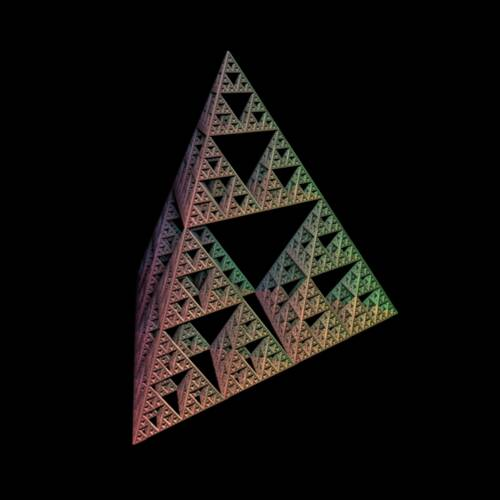
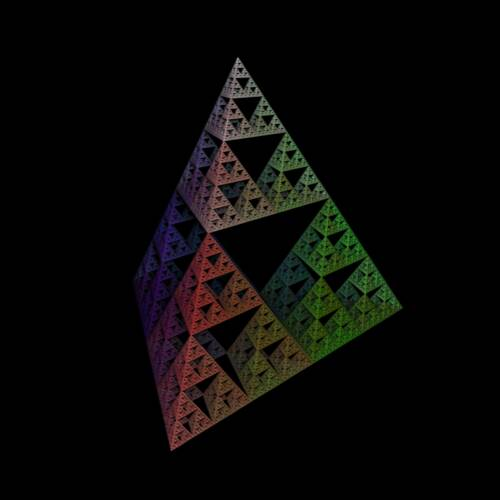
Updated the Sierpinski tetrahedron coloring algorithm

Changed region(s): [[0.24, 0.09, 0.81, 0.9]]

diff --git a/applets/the-sierpinski-tetrahedron/scripts/the-sierpinski-tetrahedron.min.js b/applets/the-sierpinski-tetrahedron/scripts/the-sierpinski-tetrahedron.min.js
@@ -1,1 +1,1 @@
-!function(){"use strict";let t=document.querySelector("#output-canvas").getContext("webgl"),e=document.querySelector("#output-canvas").offsetWidth,n=!1,o=0,i=0,a=!1,r=!1,c=!1,s=!1,l=!1,u=!1,_=0,m=!1,f=1,d=3.2954,h=1.9657,v=parseInt(document.querySelector("#dim-input").value||500),p=16,g=[],y=[],b=[],w=[],x=[4.2178,.8269,1.9065],S=[0,0,5],M=1.25,L=2,A=.01,P=.01,k=Math.pow(2,-p);U(),document.querySelector("#output-canvas").setAttribute("width",v),document.querySelector("#output-canvas").setAttribute("height",v),document.querySelector("#dim-input").addEventListener("input",function(){(v=parseInt(document.querySelector("#dim-input").value||500))<200&&(v=200);v>2e3&&(v=2e3);t.uniform1i(E.small_image_size_uniform,v),document.querySelector("#output-canvas").setAttribute("width",v),document.querySelector("#output-canvas").setAttribute("height",v),t.viewport(0,0,v,v),C()}),document.querySelector("#generate-high-res-image-button").addEventListener("click",function(){let e=v;v=parseInt(document.querySelector("#high-res-dim-input").value||2e3),document.querySelector("#output-canvas").setAttribute("width",v),document.querySelector("#output-canvas").setAttribute("height",v),t.viewport(0,0,v,v),C();let n=document.createElement("a");n.download="the-sierpinski-tetrahedron.png",n.href=document.querySelector("#output-canvas").toDataURL(),n.click(),n.remove(),v=e,document.querySelector("#output-canvas").setAttribute("width",v),document.querySelector("#output-canvas").setAttribute("height",v),t.viewport(0,0,v,v),C()}),window.addEventListener("resize",R),setTimeout(R,500),document.querySelector("#output-canvas").addEventListener("mousedown",function(t){n=!0,o=t.clientX,i=t.clientY}),document.querySelector("#output-canvas").addEventListener("mousemove",function(t){if(n){t.preventDefault();let n=t.clientX,a=t.clientY,r=n-o,c=a-i;if(Math.abs(r)>20||Math.abs(c)>20)return;(d+=r/e*Math.PI)>=2*Math.PI?d-=2*Math.PI:d<0&&(d+=2*Math.PI),(h-=c/e*Math.PI)>Math.PI-.01?h=Math.PI-.01:h<.01&&(h=.01),o=n,i=a,U(),C()}}),document.documentElement.addEventListener("mouseup",function(t){n=!1}),document.querySelector("#output-canvas").addEventListener("touchstart",function(t){o=t.touches[0].clientX,i=t.touches[0].clientY,2===t.touches.length?(l=!0,u=!1):3===t.touches.length&&(u=!0,l=!1)}),document.querySelector("#output-canvas").addEventListener("touchmove",function(t){t.preventDefault();let n=t.touches[0].clientX,a=t.touches[0].clientY,r=n-o,c=a-i;Math.abs(r)>20||Math.abs(c)>20||((d+=r/e*Math.PI)>=2*Math.PI?d-=2*Math.PI:d<0&&(d+=2*Math.PI),(h-=c/e*Math.PI)>Math.PI-.01?h=Math.PI-.01:h<.01&&(h=.01),o=n,i=a,U(),C())}),document.querySelector("#output-canvas").addEventListener("touchend",function(t){2===t.touches.length?(l=!0,u=!1):3===t.touches.length?(u=!0,l=!1):(u=!1,l=!1)}),document.documentElement.addEventListener("keydown",function(t){87===t.keyCode?a=!0:83===t.keyCode&&(r=!0),68===t.keyCode?c=!0:65===t.keyCode&&(s=!0),16===t.keyCode&&(m=!0)}),document.documentElement.addEventListener("keyup",function(t){87===t.keyCode?a=!1:83===t.keyCode&&(r=!1),68===t.keyCode?c=!1:65===t.keyCode&&(s=!1),16===t.keyCode&&(m=!1)}),setInterval(function(){(a||r||c||s||l||u)&&((_=f/60)<0&&(_=0),_>.02&&(_=.02),m&&(_*=3),a||l?(x[0]+=_*y[0],x[1]+=_*y[1],x[2]+=_*y[2]):(r||u)&&(x[0]-=_*y[0],x[1]-=_*y[1],x[2]-=_*y[2]),c?(x[0]+=_*b[0]/L,x[1]+=_*b[1]/L,x[2]+=_*b[2]/L):s&&(x[0]-=_*b[0]/L,x[1]-=_*b[1]/L,x[2]-=_*b[2]/L),U(),C())},8);const I="\n\t\tattribute vec3 position;\n\t\tvarying vec2 uv;\n\n\t\tvoid main(void)\n\t\t{\n\t\t\tgl_Position = vec4(position, 1.0);\n\n\t\t\t//Interpolate quad coordinates in the fragment shader.\n\t\t\tuv = position.xy;\n\t\t}\n\t",q="\n\t\tprecision highp float;\n\t\t\n\t\tvarying vec2 uv;\n\t\t\n\t\tuniform vec3 camera_pos;\n\t\tuniform vec3 image_plane_center_pos;\n\t\tuniform vec3 forward_vec;\n\t\tuniform vec3 right_vec;\n\t\tuniform vec3 up_vec;\n\t\t\n\t\tuniform float focal_length;\n\t\t\n\t\tuniform vec3 light_pos;\n\t\tuniform float light_brightness;\n\t\t\n\t\tuniform int image_size;\n\t\tuniform int small_image_size;\n\t\t\n\t\t\n\t\t\n\t\tconst float clip_distance = 1000.0;\n\t\tconst int max_marches = 32;\n\t\tconst vec3 fog_color = vec3(0.0, 0.0, 0.0);\n\t\tconst float fog_scaling = .2;\n\t\tconst int num_sierpinski_iterations = 16;\n\t\t\n\t\t\n\t\tvec3 color;\n\t\t\n\t\tconst vec3 color_1 = vec3(1.0, 1.0, 1.0);\n\t\tconst vec3 color_2 = vec3(1.0, 0.0, 0.0);\n\t\tconst vec3 color_3 = vec3(0.0, 1.0, 0.0);\n\t\tconst vec3 color_4 = vec3(0.0, 0.0, 1.0);\n\t\t\n\t\t\n\t\t\n\t\tfloat distance_estimator(vec3 pos)\n\t\t{\n\t\t\tvec3 mutable_pos = pos;\n\t\t\t\n\t\t\tvec3 vertex_1 = vec3(0.0, 0.0, 1.0);\n\t\t\tvec3 vertex_2 = vec3(.942809, 0.0, -.333333);\n\t\t\tvec3 vertex_3 = vec3(-.471405, .816497, -.333333);\n\t\t\tvec3 vertex_4 = vec3(-.471405, -.816497, -.333333);\n\t\t\t\n\t\t\tcolor = vec3(0.0, 0.0, 0.0);\n\t\t\tfloat color_scale = .3014;\n\t\t\t\n\t\t\t\n\t\t\t//We'll find the closest vertex, scale everything by a factor of 2 centered on that vertex (so that we don't need to recalculate the vertices), and repeat.\n\t\t\tfor (int iteration = 0; iteration < num_sierpinski_iterations; iteration++)\n\t\t\t{\n\t\t\t\tfloat min_distance = clip_distance;\n\t\t\t\tvec3 closest_vertex;\n\t\t\t\t\n\t\t\t\t\n\t\t\t\t\n\t\t\t\tfloat distance = length(mutable_pos - vertex_1);\n\t\t\t\t\n\t\t\t\tif (distance < min_distance)\n\t\t\t\t{\n\t\t\t\t\tmin_distance = distance;\n\t\t\t\t\tclosest_vertex = vertex_1;\n\t\t\t\t\tcolor += color_scale * color_1;\n\t\t\t\t}\n\t\t\t\t\n\t\t\t\t\n\t\t\t\t\n\t\t\t\tdistance = length(mutable_pos - vertex_2);\n\t\t\t\t\n\t\t\t\tif (distance < min_distance)\n\t\t\t\t{\n\t\t\t\t\tmin_distance = distance;\n\t\t\t\t\tclosest_vertex = vertex_2;\n\t\t\t\t\tcolor += color_scale * color_2;\n\t\t\t\t}\n\t\t\t\t\n\t\t\t\t\n\t\t\t\t\n\t\t\t\tdistance = length(mutable_pos - vertex_3);\n\t\t\t\t\n\t\t\t\tif (distance < min_distance)\n\t\t\t\t{\n\t\t\t\t\tmin_distance = distance;\n\t\t\t\t\tclosest_vertex = vertex_3;\n\t\t\t\t\tcolor += color_scale * color_3;\n\t\t\t\t}\n\t\t\t\t\n\t\t\t\t\n\t\t\t\t\n\t\t\t\tdistance = length(mutable_pos - vertex_4);\n\t\t\t\t\n\t\t\t\tif (distance < min_distance)\n\t\t\t\t{\n\t\t\t\t\tmin_distance = distance;\n\t\t\t\t\tclosest_vertex = vertex_4;\n\t\t\t\t\tcolor += color_scale * color_4;\n\t\t\t\t}\n\t\t\t\t\n\t\t\t\t\n\t\t\t\t\n\t\t\t\t//This one takes a fair bit of thinking to get. What's happening here is that we're stretching from a vertex, but since we never scale the vertices, the four new ones are the four closest to the vertex we scaled from. Now (x, y, z) will get farther and farther away from the origin, but that makes sense -- we're really just zooming in on the tetrahedron.\n\t\t\t\tmutable_pos = 2.0 * mutable_pos - closest_vertex;\n\t\t\t\t\n\t\t\t\tcolor_scale *= .7;\n\t\t\t}\n\t\t\t\n\t\t\t\n\t\t\t\n\t\t\treturn length(mutable_pos) * pow(.5, float(num_sierpinski_iterations));\n\t\t}\n\t\t\n\t\t\n\t\t\n\t\tvec3 get_surface_normal(vec3 pos)\n\t\t{\n\t\t\tfloat e = .00001;\n\t\t\t\n\t\t\tfloat base = distance_estimator(pos);\n\t\t\t\n\t\t\tfloat x_step = distance_estimator(pos + vec3(e, 0.0, 0.0));\n\t\t\tfloat y_step = distance_estimator(pos + vec3(0.0, e, 0.0));\n\t\t\tfloat z_step = distance_estimator(pos + vec3(0.0, 0.0, e));\n\t\t\t\n\t\t\treturn normalize(vec3(x_step - base, y_step - base, z_step - base));\n\t\t}\n\t\t\n\t\t\n\t\t\n\t\tvec3 compute_shading(vec3 pos, int iteration)\n\t\t{\n\t\t\tvec3 surface_normal = get_surface_normal(pos);\n\t\t\t\n\t\t\tvec3 light_direction = normalize(light_pos - pos);\n\t\t\t\n\t\t\tfloat light_intensity = light_brightness * dot(surface_normal, light_direction);\n\t\t\t\n\t\t\t//The last factor adds ambient occlusion.\n\t\t\tcolor = color * light_intensity * max((1.0 - float(iteration) / float(max_marches)), 0.0);\n\t\t\t\n\t\t\t\n\t\t\t\n\t\t\t//Apply fog.\n\t\t\tfloat distance_from_camera = length(pos - camera_pos);\n\t\t\t\n\t\t\tfloat fog_amount = 1.0 - exp(-distance_from_camera * fog_scaling);\n\t\t\t\n\t\t\treturn (1.0 - fog_amount) * color + fog_amount * fog_color;\n\t\t}\n\t\t\n\t\t\n\t\t\n\t\tvoid main(void)\n\t\t{\n\t\t\tvec3 start_pos = image_plane_center_pos + right_vec * uv.x + up_vec * uv.y;\n\t\t\t\n\t\t\t//That factor of .9 is important -- without it, we're always stepping as far as possible, which results in artefacts and weirdness.\n\t\t\tvec3 ray_direction_vec = normalize(start_pos - camera_pos) * .9;\n\t\t\t\n\t\t\tvec3 final_color = fog_color;\n\t\t\t\n\t\t\tfloat t = 0.0;\n\t\t\t\n\t\t\tfloat epsilon = .00002;\n\t\t\t\n\t\t\t\n\t\t\t\n\t\t\tfor (int iteration = 0; iteration < max_marches; iteration++)\n\t\t\t{\n\t\t\t\tvec3 pos = start_pos + t * ray_direction_vec;\n\t\t\t\t\n\t\t\t\tfloat distance = distance_estimator(pos);\n\t\t\t\t\n\t\t\t\t//This lowers the detail far away, which makes everything run nice and fast.\n\t\t\t\tif (image_size == small_image_size && distance / 100.0 > epsilon)\n\t\t\t\t{\n\t\t\t\t\tepsilon = distance / 100.0;\n\t\t\t\t}\n\t\t\t\t\n\t\t\t\telse if (image_size != small_image_size && distance / 300.0 > epsilon)\n\t\t\t\t{\n\t\t\t\t\tepsilon = distance / 300.0;\n\t\t\t\t}\n\t\t\t\t\n\t\t\t\t\n\t\t\t\t\n\t\t\t\tif (distance < epsilon)\n\t\t\t\t{\n\t\t\t\t\tfinal_color = compute_shading(pos, iteration);\n\t\t\t\t\tbreak;\n\t\t\t\t}\n\t\t\t\t\n\t\t\t\telse if (distance > clip_distance)\n\t\t\t\t{\n\t\t\t\t\tbreak;\n\t\t\t\t}\n\t\t\t\t\n\t\t\t\t\n\t\t\t\t\n\t\t\t\tt += distance;\n\t\t\t}\n\t\t\t\n\t\t\t\n\t\t\t\n\t\t\tgl_FragColor = vec4(final_color.xyz, 1.0);\n\t\t}\n\t";let E=null;function z(){let e=T(t,t.VERTEX_SHADER,I),n=T(t,t.FRAGMENT_SHADER,q);E=t.createProgram(),t.attachShader(E,e),t.attachShader(E,n),t.linkProgram(E),t.getProgramParameter(E,t.LINK_STATUS)||(console.log(`Couldn't link shader program: ${t.getShaderInfoLog(shader)}`),t.deleteProgram(E)),t.useProgram(E);let o=t.createBuffer();t.bindBuffer(t.ARRAY_BUFFER,o),t.bufferData(t.ARRAY_BUFFER,new Float32Array([-1,-1,0,-1,1,0,1,-1,0,1,1,0]),t.STATIC_DRAW),E.position_attribute=t.getAttribLocation(E,"position"),t.enableVertexAttribArray(E.position_attribute),t.vertexAttribPointer(E.position_attribute,3,t.FLOAT,!1,0,0),E.image_size_uniform=t.getUniformLocation(E,"image_size"),E.small_image_size_uniform=t.getUniformLocation(E,"small_image_size"),E.camera_pos_uniform=t.getUniformLocation(E,"camera_pos"),E.image_plane_center_pos_uniform=t.getUniformLocation(E,"image_plane_center_pos"),E.forward_vec_uniform=t.getUniformLocation(E,"forward_vec"),E.right_vec_uniform=t.getUniformLocation(E,"right_vec"),E.up_vec_uniform=t.getUniformLocation(E,"up_vec"),E.focal_length_uniform=t.getUniformLocation(E,"focal_length"),E.epsilon_uniform=t.getUniformLocation(E,"epsilon"),E.light_pos_uniform=t.getUniformLocation(E,"light_pos"),E.light_brightness_uniform=t.getUniformLocation(E,"light_brightness"),t.viewport(0,0,v,v),C()}function T(t,e,n){let o=t.createShader(e);return t.shaderSource(o,n),t.compileShader(o),t.getShaderParameter(o,t.COMPILE_STATUS)||(console.log(`Couldn't load shader: ${t.getProgramInfoLog(shaderProgram)}`),t.deleteShader(o)),o}function C(){t.uniform1i(E.image_size_uniform,v),t.uniform1i(E.small_image_size_uniform,v),t.uniform3fv(E.camera_pos_uniform,x),t.uniform3fv(E.image_plane_center_pos_uniform,g),t.uniform3fv(E.forward_vec_uniform,y),t.uniform3fv(E.right_vec_uniform,b),t.uniform3fv(E.up_vec_uniform,w),t.uniform1f(E.focal_length_uniform,L),t.uniform1f(E.epsilon_uniform,A),t.uniform3fv(E.light_pos_uniform,S),t.uniform1f(E.light_brightness_uniform,M),t.drawArrays(t.TRIANGLE_STRIP,0,4),f=function(t,e,n){let o=[[0,0,1],[.942809,0,-.333333],[-.471405,.816497,-.333333],[-.471405,-.816497,-.333333]];for(let i=0;i<p;i++){let i=1/0,a=0;for(let r=0;r<4;r++){let c=(t-o[r][0])*(t-o[r][0])+(e-o[r][1])*(e-o[r][1])+(n-o[r][2])*(n-o[r][2]);c<i&&(i=c,a=r)}t=2*t-o[a][0],e=2*e-o[a][1],n=2*n-o[a][2]}return Math.sqrt(t*t+e*e+n*n)*Math.pow(2,-p)}(g[0],g[1],g[2])}function U(){var t,e;y=[Math.cos(d)*Math.sin(h),Math.sin(d)*Math.sin(h),Math.cos(h)],b=function(t){let e=Math.sqrt(t[0]*t[0]+t[1]*t[1]+t[2]*t[2]);return[t[0]/e,t[1]/e,t[2]/e]}([y[1],-y[0],0]),e=y,w=[(t=b)[1]*e[2]-t[2]*e[1],t[2]*e[0]-t[0]*e[2],t[0]*e[1]-t[1]*e[0]],L=f/2,b[0]*=L/2,b[1]*=L/2,w[0]*=L/2,w[1]*=L/2,w[2]*=L/2,A=Math.max(Math.min(f/50,P),k),g=[x[0]+L*y[0],x[1]+L*y[1],x[2]+L*y[2]]}function R(){e=document.querySelector("#output-canvas").offsetWidth}load_script("/scripts/gl-matrix.min.js").then(function(){setTimeout(z,500)})}();
+!function(){"use strict";let t=document.querySelector("#output-canvas").getContext("webgl"),e=document.querySelector("#output-canvas").offsetWidth,n=!1,o=0,i=0,r=!1,a=!1,c=!1,s=!1,l=!1,u=!1,m=0,_=!1,f=1,h=3.2954,d=1.9657,v=parseInt(document.querySelector("#dim-input").value||500),p=16,g=[],y=[],b=[],w=[],S=[4.2178,.8269,1.9065],x=[0,0,5],M=2,L=2,A=.01,P=.01,k=Math.pow(2,-p);U(),document.querySelector("#output-canvas").setAttribute("width",v),document.querySelector("#output-canvas").setAttribute("height",v),document.querySelector("#dim-input").addEventListener("input",function(){(v=parseInt(document.querySelector("#dim-input").value||500))<200&&(v=200);v>2e3&&(v=2e3);t.uniform1i(z.small_image_size_uniform,v),document.querySelector("#output-canvas").setAttribute("width",v),document.querySelector("#output-canvas").setAttribute("height",v),t.viewport(0,0,v,v),C()}),document.querySelector("#generate-high-res-image-button").addEventListener("click",function(){let e=v;v=parseInt(document.querySelector("#high-res-dim-input").value||2e3),document.querySelector("#output-canvas").setAttribute("width",v),document.querySelector("#output-canvas").setAttribute("height",v),t.viewport(0,0,v,v),C();let n=document.createElement("a");n.download="the-sierpinski-tetrahedron.png",n.href=document.querySelector("#output-canvas").toDataURL(),n.click(),n.remove(),v=e,document.querySelector("#output-canvas").setAttribute("width",v),document.querySelector("#output-canvas").setAttribute("height",v),t.viewport(0,0,v,v),C()}),window.addEventListener("resize",R),setTimeout(R,500),document.querySelector("#output-canvas").addEventListener("mousedown",function(t){n=!0,o=t.clientX,i=t.clientY}),document.querySelector("#output-canvas").addEventListener("mousemove",function(t){if(n){t.preventDefault();let n=t.clientX,r=t.clientY,a=n-o,c=r-i;if(Math.abs(a)>20||Math.abs(c)>20)return;(h+=a/e*Math.PI)>=2*Math.PI?h-=2*Math.PI:h<0&&(h+=2*Math.PI),(d-=c/e*Math.PI)>Math.PI-.01?d=Math.PI-.01:d<.01&&(d=.01),o=n,i=r,U(),C()}}),document.documentElement.addEventListener("mouseup",function(t){n=!1}),document.querySelector("#output-canvas").addEventListener("touchstart",function(t){o=t.touches[0].clientX,i=t.touches[0].clientY,2===t.touches.length?(l=!0,u=!1):3===t.touches.length&&(u=!0,l=!1)}),document.querySelector("#output-canvas").addEventListener("touchmove",function(t){t.preventDefault();let n=t.touches[0].clientX,r=t.touches[0].clientY,a=n-o,c=r-i;Math.abs(a)>20||Math.abs(c)>20||((h+=a/e*Math.PI)>=2*Math.PI?h-=2*Math.PI:h<0&&(h+=2*Math.PI),(d-=c/e*Math.PI)>Math.PI-.01?d=Math.PI-.01:d<.01&&(d=.01),o=n,i=r,U(),C())}),document.querySelector("#output-canvas").addEventListener("touchend",function(t){2===t.touches.length?(l=!0,u=!1):3===t.touches.length?(u=!0,l=!1):(u=!1,l=!1)}),document.documentElement.addEventListener("keydown",function(t){87===t.keyCode?r=!0:83===t.keyCode&&(a=!0),68===t.keyCode?c=!0:65===t.keyCode&&(s=!0),16===t.keyCode&&(_=!0)}),document.documentElement.addEventListener("keyup",function(t){87===t.keyCode?r=!1:83===t.keyCode&&(a=!1),68===t.keyCode?c=!1:65===t.keyCode&&(s=!1),16===t.keyCode&&(_=!1)}),setInterval(function(){(r||a||c||s||l||u)&&((m=f/60)<0&&(m=0),m>.02&&(m=.02),_&&(m*=3),r||l?(S[0]+=m*y[0],S[1]+=m*y[1],S[2]+=m*y[2]):(a||u)&&(S[0]-=m*y[0],S[1]-=m*y[1],S[2]-=m*y[2]),c?(S[0]+=m*b[0]/L,S[1]+=m*b[1]/L,S[2]+=m*b[2]/L):s&&(S[0]-=m*b[0]/L,S[1]-=m*b[1]/L,S[2]-=m*b[2]/L),U(),C())},8);const I="\n\t\tattribute vec3 position;\n\t\tvarying vec2 uv;\n\n\t\tvoid main(void)\n\t\t{\n\t\t\tgl_Position = vec4(position, 1.0);\n\n\t\t\t//Interpolate quad coordinates in the fragment shader.\n\t\t\tuv = position.xy;\n\t\t}\n\t",q="\n\t\tprecision highp float;\n\t\t\n\t\tvarying vec2 uv;\n\t\t\n\t\tuniform vec3 camera_pos;\n\t\tuniform vec3 image_plane_center_pos;\n\t\tuniform vec3 forward_vec;\n\t\tuniform vec3 right_vec;\n\t\tuniform vec3 up_vec;\n\t\t\n\t\tuniform float focal_length;\n\t\t\n\t\tuniform vec3 light_pos;\n\t\tuniform float light_brightness;\n\t\t\n\t\tuniform int image_size;\n\t\tuniform int small_image_size;\n\t\t\n\t\t\n\t\t\n\t\tconst float clip_distance = 1000.0;\n\t\tconst int max_marches = 32;\n\t\tconst vec3 fog_color = vec3(0.0, 0.0, 0.0);\n\t\tconst float fog_scaling = .2;\n\t\tconst int num_sierpinski_iterations = 16;\n\t\t\n\t\t\n\t\tvec3 color;\n\t\t\n\t\tconst vec3 color_1 = vec3(1.0, 0.0, 0.0);\n\t\tconst vec3 color_2 = vec3(0.0, 1.0, 0.0);\n\t\tconst vec3 color_3 = vec3(0.0, 0.0, 1.0);\n\t\t\n\t\tconst vec3 vertex_0 = vec3(0.0, 0.0, 1.0);\n\t\tconst vec3 vertex_1 = vec3(.942809, 0.0, -.333333);\n\t\tconst vec3 vertex_2 = vec3(-.471405, .816497, -.333333);\n\t\tconst vec3 vertex_3 = vec3(-.471405, -.816497, -.333333);\n\t\t\n\t\tconst vec3 n1 = normalize(vertex_0 - vertex_1);\n\t\tconst vec3 n2 = normalize(vertex_0 - vertex_2);\n\t\tconst vec3 n3 = normalize(vertex_0 - vertex_3);\n\t\t\n\t\t\n\t\t\n\t\tfloat distance_estimator(vec3 pos)\n\t\t{\n\t\t\tvec3 mutable_pos = pos;\n\t\t\t\n\t\t\tcolor = vec3(1.0, 1.0, 1.0);\n\t\t\tfloat color_scale = .5;\n\t\t\t\n\t\t\t\n\t\t\t//We'll find the closest vertex, scale everything by a factor of 2 centered on that vertex (so that we don't need to recalculate the vertices), and repeat.\n\t\t\tfor (int iteration = 0; iteration < num_sierpinski_iterations; iteration++)\n\t\t\t{\n\t\t\t\t//Fold space over on itself so that we can reference only the top vertex.\n\t\t\t\tfloat t1 = dot(mutable_pos, n1);\n\t\t\t\t\n\t\t\t\tif (t1 < 0.0)\n\t\t\t\t{\n\t\t\t\t\tmutable_pos -= 2.0 * t1 * n1;\n\t\t\t\t\t\n\t\t\t\t\tcolor = (1.0 - color_scale) * color + color_scale * color_1;\n\t\t\t\t}\n\t\t\t\t\n\t\t\t\tfloat t2 = dot(mutable_pos, n2);\n\t\t\t\t\n\t\t\t\tif (t2 < 0.0)\n\t\t\t\t{\n\t\t\t\t\tmutable_pos -= 2.0 * t2 * n2;\n\t\t\t\t\t\n\t\t\t\t\tcolor = (1.0 - color_scale) * color + color_scale * color_2;\n\t\t\t\t}\n\t\t\t\t\n\t\t\t\tfloat t3 = dot(mutable_pos, n3);\n\t\t\t\t\n\t\t\t\tif (t3 < 0.0)\n\t\t\t\t{\n\t\t\t\t\tmutable_pos -= 2.0 * t3 * n3;\n\t\t\t\t\t\n\t\t\t\t\tcolor = (1.0 - color_scale) * color + color_scale * color_3;\n\t\t\t\t}\n\t\t\t\t\n\t\t\t\t\n\t\t\t\t\n\t\t\t\t//This one takes a fair bit of thinking to get. What's happening here is that we're stretching from a vertex, but since we never scale the vertices, the four new ones are the four closest to the vertex we scaled from. Now (x, y, z) will get farther and farther away from the origin, but that makes sense -- we're really just zooming in on the tetrahedron.\n\t\t\t\tmutable_pos = 2.0 * mutable_pos - vertex_0;\n\t\t\t\t\n\t\t\t\tcolor_scale *= .5;\n\t\t\t}\n\t\t\t\n\t\t\treturn length(mutable_pos) * pow(.5, float(num_sierpinski_iterations));\n\t\t}\n\t\t\n\t\t\n\t\t\n\t\tvec3 get_surface_normal(vec3 pos)\n\t\t{\n\t\t\tfloat e = .00001;\n\t\t\t\n\t\t\tfloat base = distance_estimator(pos);\n\t\t\t\n\t\t\tfloat x_step = distance_estimator(pos + vec3(e, 0.0, 0.0));\n\t\t\tfloat y_step = distance_estimator(pos + vec3(0.0, e, 0.0));\n\t\t\tfloat z_step = distance_estimator(pos + vec3(0.0, 0.0, e));\n\t\t\t\n\t\t\treturn normalize(vec3(x_step - base, y_step - base, z_step - base));\n\t\t}\n\t\t\n\t\t\n\t\t\n\t\tvec3 compute_shading(vec3 pos, int iteration)\n\t\t{\n\t\t\tvec3 surface_normal = get_surface_normal(pos);\n\t\t\t\n\t\t\tvec3 light_direction = normalize(light_pos - pos);\n\t\t\t\n\t\t\tfloat light_intensity = light_brightness * dot(surface_normal, light_direction);\n\t\t\t\n\t\t\t//The last factor adds ambient occlusion.\n\t\t\tcolor = color * light_intensity * max((1.0 - float(iteration) / float(max_marches)), 0.0);\n\t\t\t\n\t\t\t\n\t\t\t\n\t\t\t//Apply fog.\n\t\t\tfloat distance_from_camera = length(pos - camera_pos);\n\t\t\t\n\t\t\tfloat fog_amount = 1.0 - exp(-distance_from_camera * fog_scaling);\n\t\t\t\n\t\t\treturn (1.0 - fog_amount) * color + fog_amount * fog_color;\n\t\t}\n\t\t\n\t\t\n\t\t\n\t\tvoid main(void)\n\t\t{\n\t\t\tvec3 start_pos = image_plane_center_pos + right_vec * uv.x + up_vec * uv.y;\n\t\t\t\n\t\t\t//That factor of .9 is important -- without it, we're always stepping as far as possible, which results in artefacts and weirdness.\n\t\t\tvec3 ray_direction_vec = normalize(start_pos - camera_pos) * .9;\n\t\t\t\n\t\t\tvec3 final_color = fog_color;\n\t\t\t\n\t\t\tfloat t = 0.0;\n\t\t\t\n\t\t\tfloat epsilon = .00002;\n\t\t\t\n\t\t\t\n\t\t\t\n\t\t\tfor (int iteration = 0; iteration < max_marches; iteration++)\n\t\t\t{\n\t\t\t\tvec3 pos = start_pos + t * ray_direction_vec;\n\t\t\t\t\n\t\t\t\tfloat distance = distance_estimator(pos);\n\t\t\t\t\n\t\t\t\t//This lowers the detail far away, which makes everything run nice and fast.\n\t\t\t\tif (image_size == small_image_size && distance / 150.0 > epsilon)\n\t\t\t\t{\n\t\t\t\t\tepsilon = distance / 150.0;\n\t\t\t\t}\n\t\t\t\t\n\t\t\t\telse if (image_size != small_image_size && distance / 500.0 > epsilon)\n\t\t\t\t{\n\t\t\t\t\tepsilon = distance / 500.0;\n\t\t\t\t}\n\t\t\t\t\n\t\t\t\t\n\t\t\t\t\n\t\t\t\tif (distance < epsilon)\n\t\t\t\t{\n\t\t\t\t\tfinal_color = compute_shading(pos, iteration);\n\t\t\t\t\tbreak;\n\t\t\t\t}\n\t\t\t\t\n\t\t\t\telse if (distance > clip_distance)\n\t\t\t\t{\n\t\t\t\t\tbreak;\n\t\t\t\t}\n\t\t\t\t\n\t\t\t\t\n\t\t\t\t\n\t\t\t\tt += distance;\n\t\t\t}\n\t\t\t\n\t\t\t\n\t\t\t\n\t\t\tgl_FragColor = vec4(final_color.xyz, 1.0);\n\t\t}\n\t";let z=null;function E(){let e=T(t,t.VERTEX_SHADER,I),n=T(t,t.FRAGMENT_SHADER,q);z=t.createProgram(),t.attachShader(z,e),t.attachShader(z,n),t.linkProgram(z),t.getProgramParameter(z,t.LINK_STATUS)||(console.log(`Couldn't link shader program: ${t.getShaderInfoLog(shader)}`),t.deleteProgram(z)),t.useProgram(z);let o=t.createBuffer();t.bindBuffer(t.ARRAY_BUFFER,o),t.bufferData(t.ARRAY_BUFFER,new Float32Array([-1,-1,0,-1,1,0,1,-1,0,1,1,0]),t.STATIC_DRAW),z.position_attribute=t.getAttribLocation(z,"position"),t.enableVertexAttribArray(z.position_attribute),t.vertexAttribPointer(z.position_attribute,3,t.FLOAT,!1,0,0),z.image_size_uniform=t.getUniformLocation(z,"image_size"),z.small_image_size_uniform=t.getUniformLocation(z,"small_image_size"),z.camera_pos_uniform=t.getUniformLocation(z,"camera_pos"),z.image_plane_center_pos_uniform=t.getUniformLocation(z,"image_plane_center_pos"),z.forward_vec_uniform=t.getUniformLocation(z,"forward_vec"),z.right_vec_uniform=t.getUniformLocation(z,"right_vec"),z.up_vec_uniform=t.getUniformLocation(z,"up_vec"),z.focal_length_uniform=t.getUniformLocation(z,"focal_length"),z.epsilon_uniform=t.getUniformLocation(z,"epsilon"),z.light_pos_uniform=t.getUniformLocation(z,"light_pos"),z.light_brightness_uniform=t.getUniformLocation(z,"light_brightness"),t.viewport(0,0,v,v),t.uniform1i(z.small_image_size_uniform,v),C()}function T(t,e,n){let o=t.createShader(e);return t.shaderSource(o,n),t.compileShader(o),t.getShaderParameter(o,t.COMPILE_STATUS)||(console.log(`Couldn't load shader: ${t.getProgramInfoLog(shaderProgram)}`),t.deleteShader(o)),o}function C(){t.uniform1i(z.image_size_uniform,v),t.uniform3fv(z.camera_pos_uniform,S),t.uniform3fv(z.image_plane_center_pos_uniform,g),t.uniform3fv(z.forward_vec_uniform,y),t.uniform3fv(z.right_vec_uniform,b),t.uniform3fv(z.up_vec_uniform,w),t.uniform1f(z.focal_length_uniform,L),t.uniform1f(z.epsilon_uniform,A),t.uniform3fv(z.light_pos_uniform,x),t.uniform1f(z.light_brightness_uniform,M),t.drawArrays(t.TRIANGLE_STRIP,0,4),f=function(t,e,n){let o=[[0,0,1],[.942809,0,-.333333],[-.471405,.816497,-.333333],[-.471405,-.816497,-.333333]];for(let i=0;i<p;i++){let i=1/0,r=0;for(let a=0;a<4;a++){let c=(t-o[a][0])*(t-o[a][0])+(e-o[a][1])*(e-o[a][1])+(n-o[a][2])*(n-o[a][2]);c<i&&(i=c,r=a)}t=2*t-o[r][0],e=2*e-o[r][1],n=2*n-o[r][2]}return Math.sqrt(t*t+e*e+n*n)*Math.pow(2,-p)}(g[0],g[1],g[2])}function U(){var t,e;y=[Math.cos(h)*Math.sin(d),Math.sin(h)*Math.sin(d),Math.cos(d)],b=function(t){let e=Math.sqrt(t[0]*t[0]+t[1]*t[1]+t[2]*t[2]);return[t[0]/e,t[1]/e,t[2]/e]}([y[1],-y[0],0]),e=y,w=[(t=b)[1]*e[2]-t[2]*e[1],t[2]*e[0]-t[0]*e[2],t[0]*e[1]-t[1]*e[0]],L=f/2,b[0]*=L/2,b[1]*=L/2,w[0]*=L/2,w[1]*=L/2,w[2]*=L/2,A=Math.max(Math.min(f/50,P),k),g=[S[0]+L*y[0],S[1]+L*y[1],S[2]+L*y[2]]}function R(){e=document.querySelector("#output-canvas").offsetWidth}load_script("/scripts/gl-matrix.min.js").then(function(){setTimeout(E,500)})}();

diff --git a/applets/the-sierpinski-tetrahedron/scripts/the-sierpinski-tetrahedron.js b/applets/the-sierpinski-tetrahedron/scripts/the-sierpinski-tetrahedron.js
@@ -45,7 +45,7 @@
 	let camera_pos = [4.2178, .8269, 1.9065];
 	
 	let light_pos = [0, 0, 5];
-	let light_brightness = 1.25;
+	let light_brightness = 2;
 	
 	let focal_length = 2;
 	let epsilon = .01;
@@ -118,10 +118,18 @@
 		
 		vec3 color;
 		
-		const vec3 color_1 = vec3(1.0, 1.0, 1.0);
-		const vec3 color_2 = vec3(1.0, 0.0, 0.0);
-		const vec3 color_3 = vec3(0.0, 1.0, 0.0);
-		const vec3 color_4 = vec3(0.0, 0.0, 1.0);
+		const vec3 color_1 = vec3(1.0, 0.0, 0.0);
+		const vec3 color_2 = vec3(0.0, 1.0, 0.0);
+		const vec3 color_3 = vec3(0.0, 0.0, 1.0);
+		
+		const vec3 vertex_0 = vec3(0.0, 0.0, 1.0);
+		const vec3 vertex_1 = vec3(.942809, 0.0, -.333333);
+		const vec3 vertex_2 = vec3(-.471405, .816497, -.333333);
+		const vec3 vertex_3 = vec3(-.471405, -.816497, -.333333);
+		
+		const vec3 n1 = normalize(vertex_0 - vertex_1);
+		const vec3 n2 = normalize(vertex_0 - vertex_2);
+		const vec3 n3 = normalize(vertex_0 - vertex_3);
 		
 		
 		
@@ -129,74 +137,48 @@
 		{
 			vec3 mutable_pos = pos;
 			
-			vec3 vertex_1 = vec3(0.0, 0.0, 1.0);
-			vec3 vertex_2 = vec3(.942809, 0.0, -.333333);
-			vec3 vertex_3 = vec3(-.471405, .816497, -.333333);
-			vec3 vertex_4 = vec3(-.471405, -.816497, -.333333);
-			
-			color = vec3(0.0, 0.0, 0.0);
-			float color_scale = .3014;
+			color = vec3(1.0, 1.0, 1.0);
+			float color_scale = .5;
 			
 			
 			//We'll find the closest vertex, scale everything by a factor of 2 centered on that vertex (so that we don't need to recalculate the vertices), and repeat.
 			for (int iteration = 0; iteration < num_sierpinski_iterations; iteration++)
 			{
-				float min_distance = clip_distance;
-				vec3 closest_vertex;
+				//Fold space over on itself so that we can reference only the top vertex.
+				float t1 = dot(mutable_pos, n1);
 				
-				
-				
-				float distance = length(mutable_pos - vertex_1);
-				
-				if (distance < min_distance)
+				if (t1 < 0.0)
 				{
-					min_distance = distance;
-					closest_vertex = vertex_1;
-					color += color_scale * color_1;
+					mutable_pos -= 2.0 * t1 * n1;
+					
+					color = (1.0 - color_scale) * color + color_scale * color_1;
 				}
 				
+				float t2 = dot(mutable_pos, n2);
 				
-				
-				distance = length(mutable_pos - vertex_2);
-				
-				if (distance < min_distance)
+				if (t2 < 0.0)
 				{
-					min_distance = distance;
-					closest_vertex = vertex_2;
-					color += color_scale * color_2;
+					mutable_pos -= 2.0 * t2 * n2;
+					
+					color = (1.0 - color_scale) * color + color_scale * color_2;
 				}
 				
+				float t3 = dot(mutable_pos, n3);
 				
-				
-				distance = length(mutable_pos - vertex_3);
-				
-				if (distance < min_distance)
+				if (t3 < 0.0)
 				{
-					min_distance = distance;
-					closest_vertex = vertex_3;
-					color += color_scale * color_3;
-				}
-				
-				
-				
-				distance = length(mutable_pos - vertex_4);
-				
-				if (distance < min_distance)
-				{
-					min_distance = distance;
-					closest_vertex = vertex_4;
-					color += color_scale * color_4;
+					mutable_pos -= 2.0 * t3 * n3;
+					
+					color = (1.0 - color_scale) * color + color_scale * color_3;
 				}
 				
 				
 				
 				//This one takes a fair bit of thinking to get. What's happening here is that we're stretching from a vertex, but since we never scale the vertices, the four new ones are the four closest to the vertex we scaled from. Now (x, y, z) will get farther and farther away from the origin, but that makes sense -- we're really just zooming in on the tetrahedron.
-				mutable_pos = 2.0 * mutable_pos - closest_vertex;
+				mutable_pos = 2.0 * mutable_pos - vertex_0;
 				
-				color_scale *= .7;
+				color_scale *= .5;
 			}
-			
-			
 			
 			return length(mutable_pos) * pow(.5, float(num_sierpinski_iterations));
 		}
@@ -263,14 +245,14 @@
 				float distance = distance_estimator(pos);
 				
 				//This lowers the detail far away, which makes everything run nice and fast.
-				if (image_size == small_image_size && distance / 100.0 > epsilon)
+				if (image_size == small_image_size && distance / 150.0 > epsilon)
 				{
-					epsilon = distance / 100.0;
+					epsilon = distance / 150.0;
 				}
 				
-				else if (image_size != small_image_size && distance / 300.0 > epsilon)
+				else if (image_size != small_image_size && distance / 500.0 > epsilon)
 				{
-					epsilon = distance / 300.0;
+					epsilon = distance / 500.0;
 				}
 				
 				
@@ -361,6 +343,7 @@
 		
 		
 		gl.viewport(0, 0, image_size, image_size);
+		gl.uniform1i(shader_program.small_image_size_uniform, image_size);
 		
 		
 		
@@ -391,7 +374,6 @@
 	function draw_frame()
 	{
 		gl.uniform1i(shader_program.image_size_uniform, image_size);
-		gl.uniform1i(shader_program.small_image_size_uniform, image_size);
 		
 		gl.uniform3fv(shader_program.camera_pos_uniform, camera_pos);
 		gl.uniform3fv(shader_program.image_plane_center_pos_uniform, image_plane_center_pos);

diff --git a/index-testing.html b/index-testing.html
@@ -8,7 +8,7 @@
 
 <meta name="keywords" content="cruz,godar,cruzgodar,writing,math,teaching,blog,notes,applet">
 <meta name="author" content="Cruz Godar">
-<meta name="description" content="Reading, writing, and proving — Caligo, classes, and complex analysis.">
+<meta name="description" content="Writing and teaching and fractals.">
 
 <link rel="apple-touch-icon" sizes="57x57" href="/apple-icon-57x57.png">
 <link rel="apple-touch-icon" sizes="60x60" href="/apple-icon-60x60.png">

diff --git a/404.html b/404.html
@@ -8,7 +8,7 @@
 
 <meta name="keywords" content="cruz,godar,cruzgodar,writing,math,teaching,blog,notes,applet">
 <meta name="author" content="Cruz Godar">
-<meta name="description" content="Reading, writing, and proving -- Caligo, classes, and complex analysis.">
+<meta name="description" content="Writing and teaching and fractals.">
 
 <link rel="apple-touch-icon" sizes="57x57" href="/apple-icon-57x57.png">
 <link rel="apple-touch-icon" sizes="60x60" href="/apple-icon-60x60.png">

diff --git a/index.html b/index.html
@@ -8,7 +8,7 @@
 
 <meta name="keywords" content="cruz,godar,cruzgodar,writing,math,teaching,blog,notes,applet">
 <meta name="author" content="Cruz Godar">
-<meta name="description" content="Reading, writing, and proving -- Caligo, classes, and complex analysis.">
+<meta name="description" content="Writing and teaching and fractals.">
 
 <link rel="apple-touch-icon" sizes="57x57" href="/apple-icon-57x57.png">
 <link rel="apple-touch-icon" sizes="60x60" href="/apple-icon-60x60.png">

diff --git a/applets/the-sierpinski-tetrahedron/the-sierpinski-tetrahedron.html b/applets/the-sierpinski-tetrahedron/the-sierpinski-tetrahedron.html
@@ -111,6 +111,8 @@
 
 
 <script>
+	DEBUG = true;
+	
 	if (typeof current_url === "undefined")
 	{
 		window.location.replace("/index.html?page=" + encodeURIComponent(window.location.pathname));
